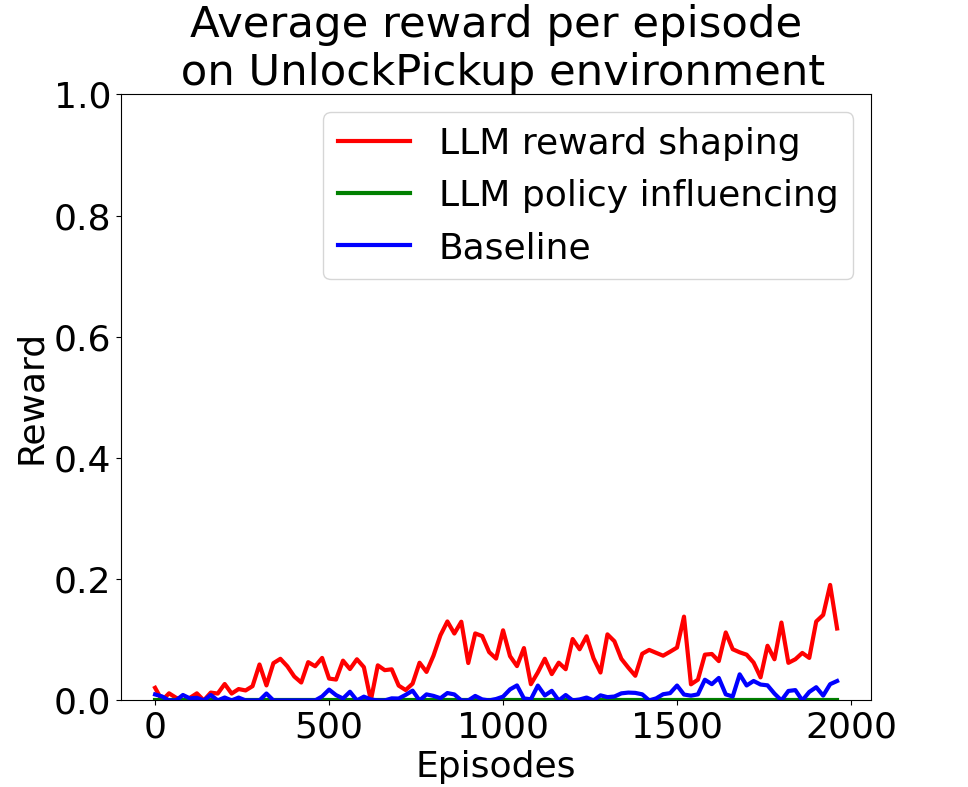
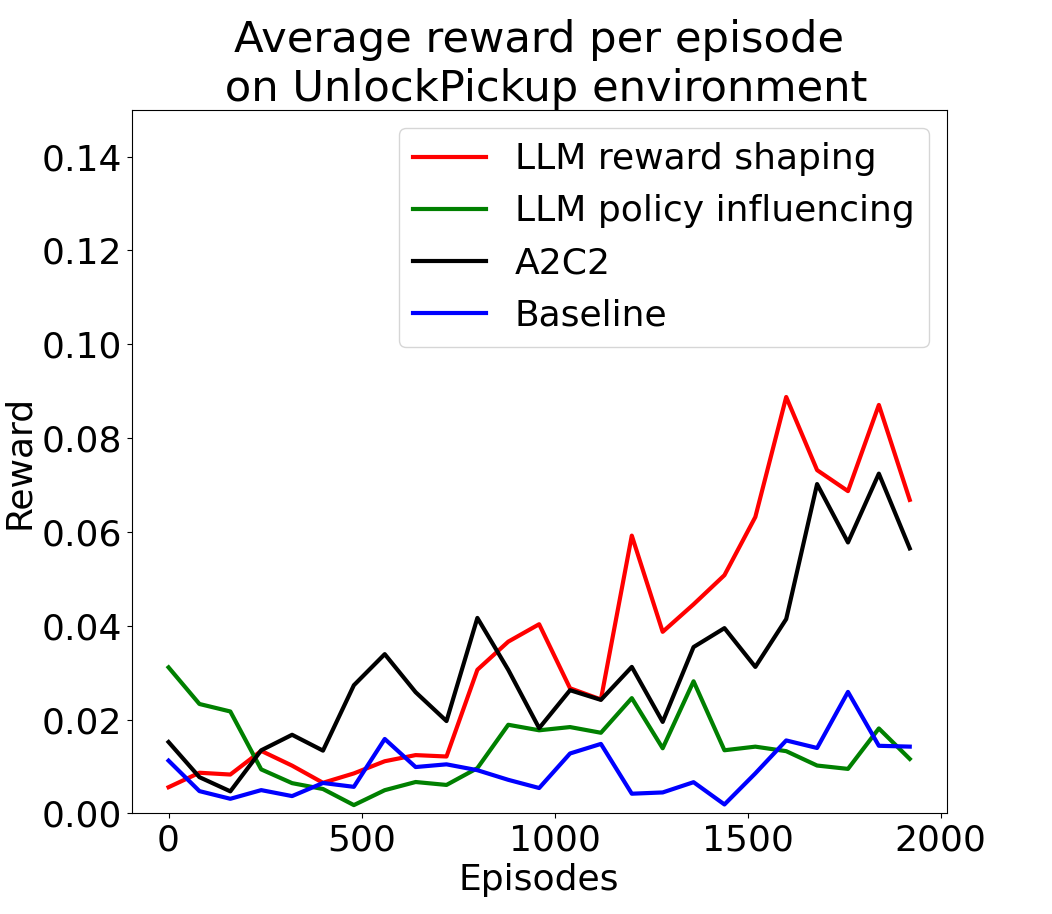
Paper dogs

diff --git a/doc/paper.tex b/doc/paper.tex
@@ -212,19 +212,19 @@ As we can see from Figure \ref{doorkeyresults}, we see impressive results from o
 \begin{tabular}{c | c c c}
 Method & Mean reward & Std reward & Increase over baseline \\
 \hline
-Baseline & 0.99 & 1 & 0\% \\
-Reward shaping & 0.99 & 1 & 30\% \\
-Policy influencing & 0.99 & 1 & -7\% \\
-Both & 0.99 & 1 & 36\% \\
+Reward shaping & 0.48 & 0.28 & 24\% \\
+Policy influencing & 0.36 & 0.31 & -6\% \\
+Both & 0.53 & 0.25 & 38\% \\
+Baseline & 0.38 & 0.31 & 0\% \\
 \end{tabular}
 \end{center}
 \end{table}
 
 LLM reward shaping gives a noticable improvement to the performance of the model, not just in the early stages of training, but throughout the entire training process. Averaging over all episodes of all eight runs per model, we find that LLM reward shaping receives $24\%$ more reward per episode than PPO trained without LLM rewards. Furthermore, this is an improvement that comes at very little computational cost, because LLM responses can be cached between runs. Of the eight runs on this environment using LLM reward shaping, the last three runs never queried the LLM at all, only relying on the cache of previous answers.
 
-Looking at LLM policy influencing, we see that it has resulted in somewhat worse results than using the PPO baseline. Averaging per episode over all eight runs shows that LLM policy influencing only achieves $89\%$ of the reward amount per episode that the baseline achieves. Judging from the graph, it may seem that policy influencing may have given some initial learning advantage, but ultimately slows learning for the agent further on. The method also gives the highest standard deviation of reward given per episode of the three compared so far, at $0.25$. As with reward shaping, we have also used caching of LLM responses to significantly decrease the computational overhead cost to a minimum. 
+Looking at LLM policy influencing, we see that it has resulted in somewhat worse results than using the PPO baseline. Averaging per episode over all eight runs shows that LLM policy influencing only achieves $93\%$ of the reward amount per episode that the baseline achieves. Judging from the graph, it may seem that policy influencing may have given some initial learning advantage, but ultimately slows learning for the agent further on. As with reward shaping, we have also used caching of LLM responses to significantly decrease the computational overhead cost to a minimum. 
 
-However, the results from both of these methods are eclipsed by the results from combining LLM reward shaping and policy influencing together in our A2C2 model. Averaging over 8 runs, we observe a $34\%$ increase in reward from the environment compared to PPO alone, $8\%$ higher than reward shaping and $43\%$ higher than policy influencing, with the lowest standard deviation of all methods, at $0.22$. Clearly, the combination of immediate direct suggestions from the policy influencer and long term indirect suggestions from the reward shaper is a favourable way of integrating the LLM with PPO, which gives results which are better than the sum of its parts, not only in the simple Empty environment, but also in more complicated environments like DoorKey.
+Regardless, the results from both of these methods are eclipsed by the results from combining LLM reward shaping and policy influencing together in our A2C2 model. Averaging over 8 runs, we observe a $38\%$ increase in reward from the environment compared to PPO alone, which is significantly higher than both policy influencing and reward shaping. Furthermore, it has the lowest standard deviation of all methods, at $0.25$. Clearly, the combination of immediate direct suggestions from the policy influencer and long term indirect suggestions from the reward shaper is a favourable way of integrating the LLM with PPO, which gives results which are better than the sum of its parts, not only in the simple Empty environment, but also in more complicated environments like DoorKey.
 
 \begin{figure}[h]
 \centerline{\includegraphics[width=3.25in]{figure/doorkeyresults.png}}
@@ -234,15 +234,15 @@ However, the results from both of these methods are eclipsed by the results from
 
 \subsubsection{Unlock Pickup environment}
 
-The Unlock Pickup environment is an even more complex environment than DoorKey, requiring a much longer string of actions to give out a reward. As may be anticipated, this added complexity makes the average reward much lower, and we see that all methods struggle (figure \ref{unlockpickupresults}).
+The Unlock Pickup environment is an even more complex environment than DoorKey, requiring a much longer string of actions to give out a reward. As may be anticipated, this added complexity makes the average reward much lower, and can see from Fig. \ref{unlockpickupresults} that all methods struggle (keep in mind the the y-axis now only goes to $0.15$, as opposed to the maximum reward possible of $1$, which the other graphs use).
 
 \begin{figure}[h]
 \centerline{\includegraphics[width=3.25in]{figure/unlockpickupresults.png}}
-\caption{Reward per episode for the four different methods in the UnlockPickup environment}
+\caption{Reward per episode for the four different methods in the UnlockPickup environment. Note the y-axis, which only goes to $0.15$ as opposed to $1$}
 \label{unlockpickupresults}
 \end{figure}
 
-As we can see, LLM performs the best overall, and performs much better than vanilla PPO, which struggles to learn the correct policy in this complex environment. Given the terrible performance of the baseline, LLM reward shaping achieved a percentage increase of over $700\%$, which is not that impressive when the average reward from the baseline was close to zero. The baseline achieved an average reward of $0.0089$ (with a standard deviation of $0.015$), while LLM reward shaping achieved an average reward of $0.062$ (with a standard deviation of $0.081$). See table \ref{unlockpickuptable}.
+As we can see, LLM reward shaping performs the best overall, and performs much better than vanilla PPO, which struggles to learn the correct policy in this complex environment. Given the terrible performance of the baseline, LLM reward shaping achieved a percentage increase of $275\%$, which is not that impressive when the average reward from the baseline was close to zero. The baseline achieved an average reward of $0.0097$, while LLM reward shaping achieved an average reward of $0.037$. See table \ref{unlockpickuptable}.
 
 \begin{table}[h]
 \caption{All results on UnlockPickup environment}
@@ -251,17 +251,17 @@ As we can see, LLM performs the best overall, and performs much better than vani
 \begin{tabular}{c | c c c}
 Method & Mean reward & Std reward & Increase over baseline \\
 \hline
-Baseline & 0.99 & 1 & 0\% \\
-Reward shaping & 0.99 & 1 & 30\% \\
-Policy influencing & 0.99 & 1 & -7\% \\
-Both & 0.99 & 1 & 36\% \\
+Reward shaping & 0.037 & 0.082 & 275\% \\
+Policy influencing & 0.014 & 0.034 & 43\% \\
+Both & 0.031 & 0.072 & 222\% \\
+Baseline & 0.0097 & 0.025 & 0\% \\
 \end{tabular}
 \end{center}
 \end{table}
 
-As is clear from the graph, policy influencing struggles in this environment as well, performing even worse than the baseline. Policy influencing received a mean average score of NUMBER, which is PERCENT lower than the baseline. In this complicated environment, it may that suboptimal responses from the LLM have high chance to ruin the agent's chance to complete the goal, for example by suggesting to open the box instead of picking it up. As explained earlier, this instantly loses the game by removing the box from the game.
+Looking at figure \ref{unlockpickupresults}, we can see that policy influencing also struggles in this environment. From table \ref{unlockpickuptable}, we see a $43\%$ increase, although this is not very impressive given the low score of the baseline, and it is difficult to see an upward trend in the amount of reward received, which can be clearly seen in the reward shaping method. Policy influencing received a mean average score of $0.014$. In this complicated environment, it may that suboptimal responses from the LLM have high chance to ruin the agent's chance to complete the goal, for example by suggesting to open the box instead of picking it up. As explained earlier, this instantly loses the game by removing the box from the game. Thus, while the results are better than the baseline, they are still very poor and we do not consider policy influencing to be particularly beneficial in this environment.
 
-Our A2C2 performs much better than only policy influencing, but in this case we are not able to combine the two LLM integrations to receive a performance higher than the sum of its parts. Here we receive a score of NUMBER, which is higher than the baseline and policy influencing, but not higher than reward shaping by itself. It may be that in this case, the performance of policy influencing is so poor that the combination is not able to utilize the best of both methods, instead only being dragged down by poor suggestions.
+Our A2C2 performs much better than only policy influencing, but in this case we are not able to combine the two LLM integrations to receive a performance higher than the sum of its parts. Here we receive a score of $0.072$, which is higher than the baseline and policy influencing, but not higher than reward shaping by itself. It may be that in this case, the performance of policy influencing is so poor that the combination is not able to utilize the best of both methods, instead only being dragged down by poor suggestions.
 
 \subsection{Inspecting the LLM responses}
 \label{llmresponse}
@@ -309,7 +309,7 @@ My goal is: GOAL. I see a green goal left and forward, have a yellow key in my i
 
 \subsubsection{UnlockPickup}
 
-On our final environment, we can see from table \ref{unlockpickupresponses}, such as suggestion to pick up a key when it is directly in front, and moving towards the goal although other observations are also present. We also see some suboptimal responses, such as suggesting to pick up a key when it is not directly in front and suggesting to pick up a key when it is already in the players inventory. These poor responses can explain why policy influencing can have a detrimental impact in this environment, as these actions will always be sampled slightly more often.
+On our final environment, we can see (Table \ref{unlockpickupresponses}) beneficial responses similar to the ones given in DoorKey. Here, we also see some absurd responses, which show that the LLM has completely misunderstood the prompt and few-shot examples. These responses are not particularly common, but they do occur sometimes and reveal some of the problems with running a relatively small LLM locally, as opposed to a larger model such as GPT4.
 
 \begin{table}[h]
 \caption{Sample responses from LLM in UnlockPickup environment. Good responses above line and suboptimal responses below.}
